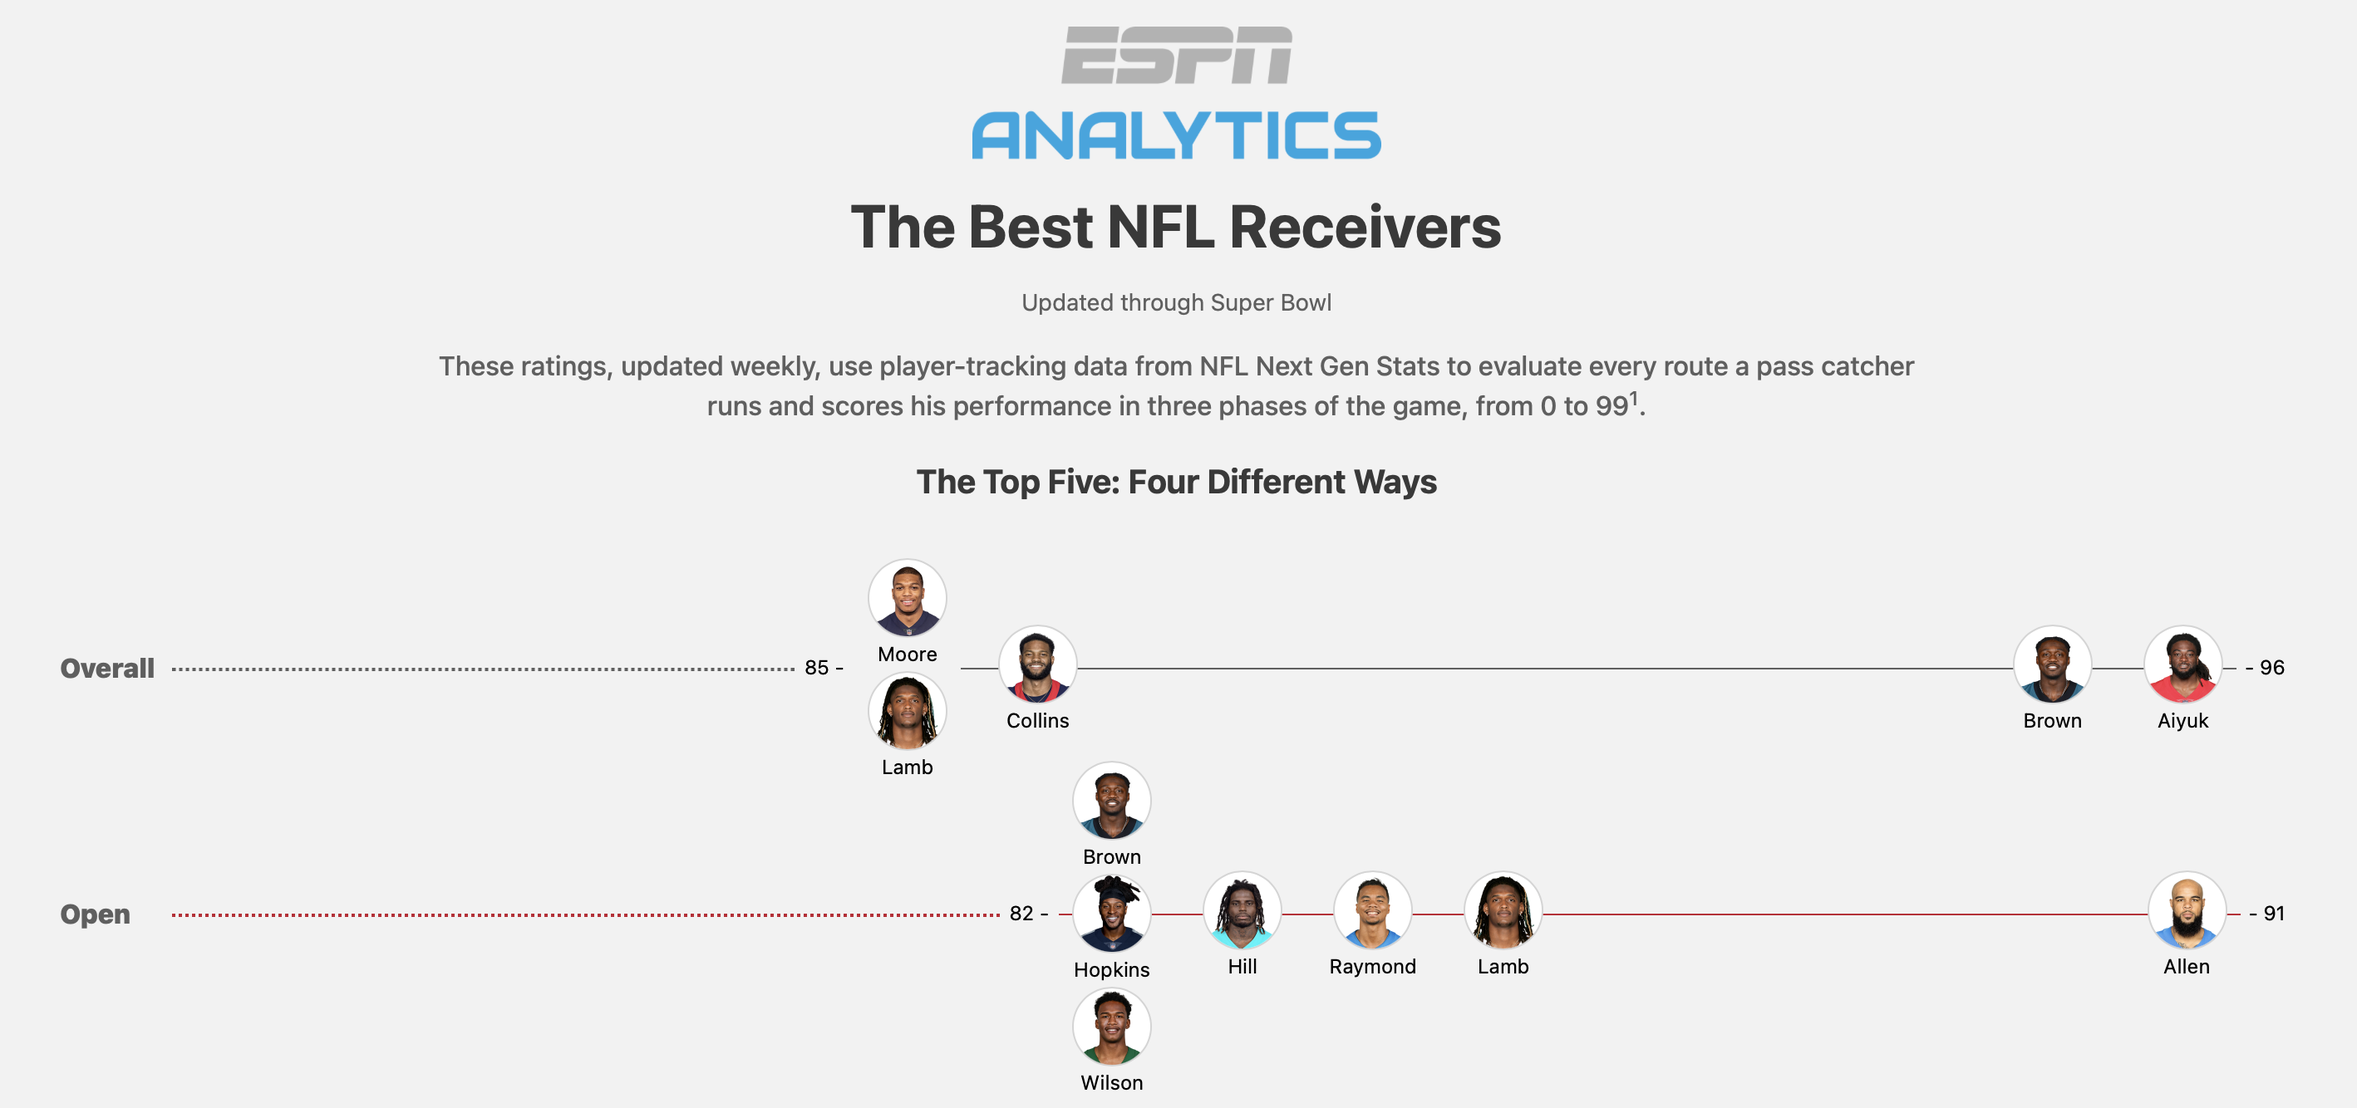
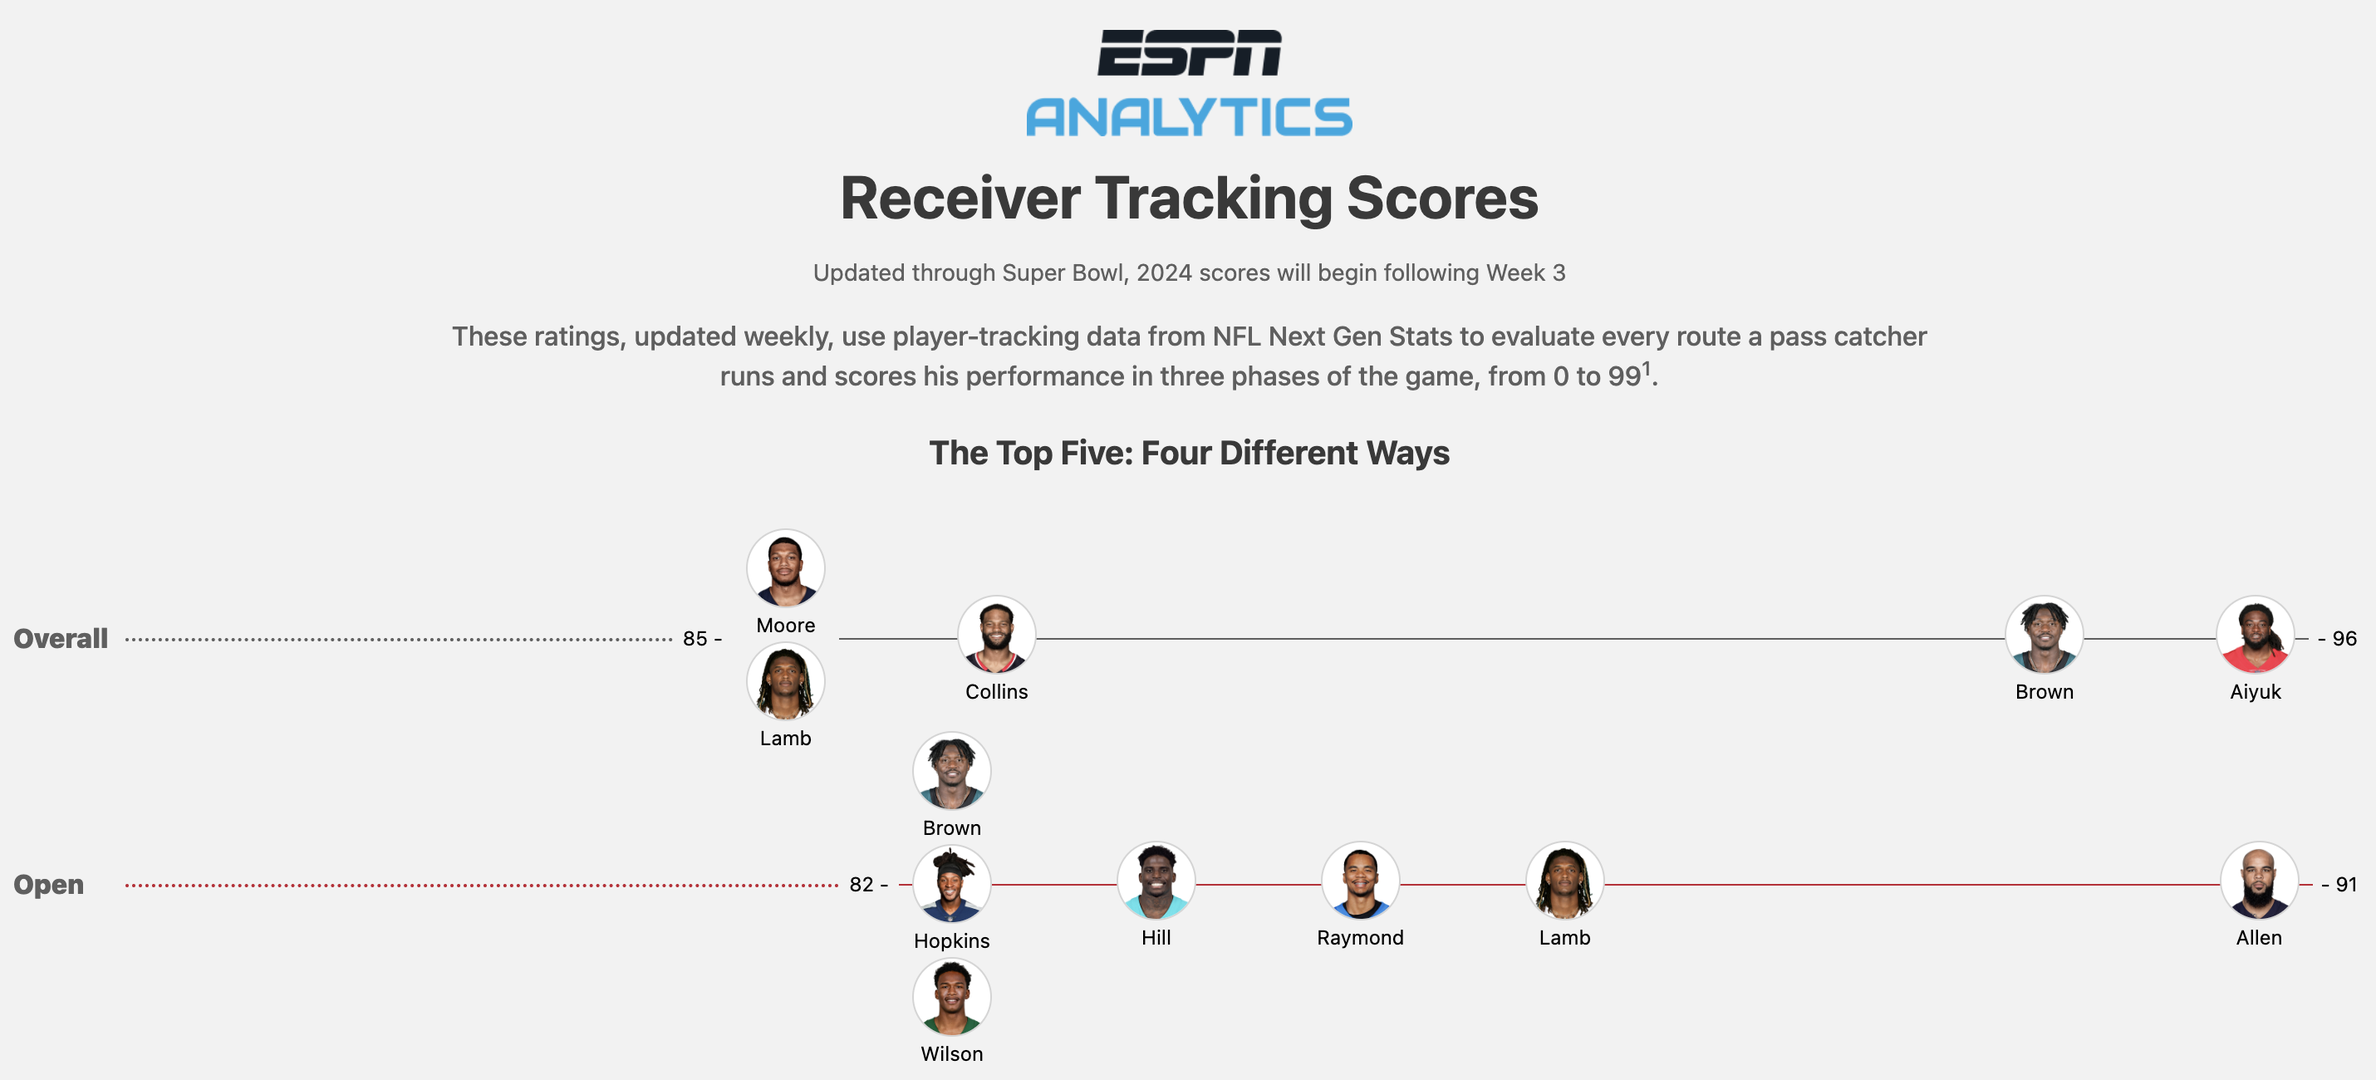
little update for start of NFL season

diff --git a/pages/features.vue b/pages/features.vue
@@ -28,17 +28,20 @@
               <div class="mt-10 flex items-center justify-center gap-x-6 flex-wrap">
                 <div class="flex gap-x-1 gap-y-4 sm:gap-6 flex-wrap justify-center">
                   <a href="https://espnanalytics.com/wnba-wpa" class="flex items-center justify-center w-[162px] rounded-md bg-espncyan-200 px-3.5 py-2.5 text-sm font-semibold text-white shadow-sm hover:bg-espncyan-900 focus-visible:outline focus-visible:outline-2 focus-visible:outline-offset-2 focus-visible:outline-espncyan-900">WNBA Player Metrics</a>
-                  <a href="https://espnanalytics.com/nba-mock-draft" class="flex items-center justify-center w-[162px] rounded-md bg-espncyan-200 px-3.5 py-2.5 text-sm font-semibold text-white shadow-sm hover:bg-espncyan-900 focus-visible:outline focus-visible:outline-2 focus-visible:outline-offset-2 focus-visible:outline-espncyan-900">NBA Mock Draft Builder</a>
-                  <a href="https://espnanalytics.com/nba-draft-sim" class="flex items-center justify-center w-[162px] rounded-md bg-espncyan-200 px-3.5 py-2.5 text-sm font-semibold text-white shadow-sm hover:bg-espncyan-900 focus-visible:outline focus-visible:outline-2 focus-visible:outline-offset-2 focus-visible:outline-espncyan-900">NBA Draft Simulator</a>
-                  <a href="https://espnanalytics.com/nba-draft-predictor" class="flex items-center justify-center w-[162px] rounded-md bg-espncyan-200 px-3.5 py-2.5 text-sm font-semibold text-white shadow-sm hover:bg-espncyan-900 focus-visible:outline focus-visible:outline-2 focus-visible:outline-offset-2 focus-visible:outline-espncyan-900">NBA Draft Predictor</a>
+                  <a href="/decision" class="flex items-center justify-center w-[162px] rounded-md bg-espncyan-200 px-3.5 py-2.5 text-sm font-semibold text-white shadow-sm hover:bg-espncyan-900 focus-visible:outline focus-visible:outline-2 focus-visible:outline-offset-2 focus-visible:outline-espncyan-900">NFL 4th Downs</a>
+                  <a href="/rtm" class="flex items-center justify-center w-[162px] rounded-md bg-espncyan-200 px-3.5 py-2.5 text-sm font-semibold text-white shadow-sm hover:bg-espncyan-900 focus-visible:outline focus-visible:outline-2 focus-visible:outline-offset-2 focus-visible:outline-espncyan-900">NFL Receiver Scores</a>
                   <a href="/schedule" class="flex items-center justify-center w-[162px] rounded-md bg-espncyan-200 px-3.5 py-2.5 text-sm font-semibold text-white shadow-sm hover:bg-espncyan-900 focus-visible:outline focus-visible:outline-2 focus-visible:outline-offset-2 focus-visible:outline-espncyan-900">2024 NFL Schedule Analysis</a>
+                  <a href="https://espnanalytics.com/nba-mock-draft" class="flex items-center justify-center w-[162px] rounded-md bg-espncyan-200 px-3.5 py-2.5 text-sm font-semibold text-white shadow-sm hover:bg-espncyan-900 focus-visible:outline focus-visible:outline-2 focus-visible:outline-offset-2 focus-visible:outline-espncyan-900">2024 NBA Mock Draft Builder</a>
+                  <a href="https://espnanalytics.com/nba-draft-sim" class="flex items-center justify-center w-[162px] rounded-md bg-espncyan-200 px-3.5 py-2.5 text-sm font-semibold text-white shadow-sm hover:bg-espncyan-900 focus-visible:outline focus-visible:outline-2 focus-visible:outline-offset-2 focus-visible:outline-espncyan-900">2024 NBA Draft Simulator</a>
+                  <a href="https://espnanalytics.com/nba-draft-predictor" class="flex items-center justify-center w-[162px] rounded-md bg-espncyan-200 px-3.5 py-2.5 text-sm font-semibold text-white shadow-sm hover:bg-espncyan-900 focus-visible:outline focus-visible:outline-2 focus-visible:outline-offset-2 focus-visible:outline-espncyan-900">2024 NBA Draft Predictor</a>
+                  
                   <a href="https://espnanalytics.com/mock-draft" class="flex items-center justify-center w-[162px] rounded-md bg-espncyan-200 px-3.5 py-2.5 text-sm font-semibold text-white shadow-sm hover:bg-espncyan-900 focus-visible:outline focus-visible:outline-2 focus-visible:outline-offset-2 focus-visible:outline-espncyan-900">2024 NFL Mock Draft Builder</a>
                   <a href="https://espnanalytics.com/draft-sim" class="flex items-center justify-center w-[162px] rounded-md bg-espncyan-200 px-3.5 py-2.5 text-sm font-semibold text-white shadow-sm hover:bg-espncyan-900 focus-visible:outline focus-visible:outline-2 focus-visible:outline-offset-2 focus-visible:outline-espncyan-900">2024 NFL Draft Simulator</a>
                   <a href="https://espnanalytics.com/draft-predictor" class="flex items-center justify-center w-[162px] rounded-md bg-espncyan-200 px-3.5 py-2.5 text-sm font-semibold text-white shadow-sm hover:bg-espncyan-900 focus-visible:outline focus-visible:outline-2 focus-visible:outline-offset-2 focus-visible:outline-espncyan-900">2024 NFL Draft Predictor</a>
-                  <a href="/rtm" class="flex items-center justify-center w-[162px] rounded-md bg-espncyan-200 px-3.5 py-2.5 text-sm font-semibold text-white shadow-sm hover:bg-espncyan-900 focus-visible:outline focus-visible:outline-2 focus-visible:outline-offset-2 focus-visible:outline-espncyan-900">RTMs</a>
+                  
                   <a href="/wcbb-games" class="flex items-center justify-center w-[162px] rounded-md bg-espncyan-200 px-3.5 py-2.5 text-sm font-semibold text-white shadow-sm hover:bg-espncyan-900 focus-visible:outline focus-visible:outline-2 focus-visible:outline-offset-2 focus-visible:outline-espncyan-900">2024 March Madness</a>
                   <a href="/draft-order" class="flex items-center justify-center w-[162px] rounded-md bg-espncyan-200 px-3.5 py-2.5 text-sm font-semibold text-white shadow-sm hover:bg-espncyan-900 focus-visible:outline focus-visible:outline-2 focus-visible:outline-offset-2 focus-visible:outline-espncyan-900">2024 Week 18 Draft Race</a>
-                  <a href="/decision" class="flex items-center justify-center w-[162px] rounded-md bg-espncyan-200 px-3.5 py-2.5 text-sm font-semibold text-white shadow-sm hover:bg-espncyan-900 focus-visible:outline focus-visible:outline-2 focus-visible:outline-offset-2 focus-visible:outline-espncyan-900">4th Downs</a>
+                  
                   <a href="https://espnanalytics.com/draft-predictor/2023" class="flex items-center justify-center w-[162px] rounded-md bg-espncyan-200 px-3.5 py-2.5 text-sm font-semibold text-white shadow-sm hover:bg-espncyan-900 focus-visible:outline focus-visible:outline-2 focus-visible:outline-offset-2 focus-visible:outline-espncyan-900">2023 NFL Draft Predictor</a>
                   <a href="https://espnanalytics.com/draft-sim/2023" class="flex items-center justify-center w-[162px] rounded-md bg-espncyan-200 px-3.5 py-2.5 text-sm font-semibold text-white shadow-sm hover:bg-espncyan-900 focus-visible:outline focus-visible:outline-2 focus-visible:outline-offset-2 focus-visible:outline-espncyan-900">2023 NFL Draft Simulator</a>
                   <a href="https://espnanalytics.com/draft-predictor/2022" class="flex items-center justify-center w-[162px] rounded-md bg-espncyan-200 px-3.5 py-2.5 text-sm font-semibold text-white shadow-sm hover:bg-espncyan-900 focus-visible:outline focus-visible:outline-2 focus-visible:outline-offset-2 focus-visible:outline-espncyan-900">2022 NFL Draft Predictor</a>
@@ -59,7 +62,7 @@
             </div>
             <div class="mt-8 flow-root sm:mt-12">
               <div class="sm:-m-2 rounded-xl bg-gray-900/5 p-2 ring-1 ring-inset ring-gray-900/10 lg:-m-4 lg:rounded-2xl lg:p-4">
-                <a href="/rtm"><img src="../assets/rtm_screenshot.png" alt="App screenshot" width="2432" height="1442" class="rounded-md shadow-2xl ring-1 ring-gray-900/10" /></a>
+                <a href="/wnba-wpa"><img src="../assets/wpa_screenshot.png" alt="App screenshot" width="2432" height="1442" class="rounded-md shadow-2xl ring-1 ring-gray-900/10" /></a>
               </div>
             </div>
           </div>

diff --git a/components/Header.vue b/components/Header.vue
@@ -17,7 +17,7 @@
         <div class="hidden lg:flex lg:gap-x-12 lg:items-center">
           <Popover class="relative px-10 w-[170px] text-center">
             <PopoverButton class="inline-flex items-center gap-x-1 text-lg font-semibold leading-6 text-gray-900 focus-visible:outline-none">
-              <span>NBA Draft</span>            
+              <span>NFL</span>            
             </PopoverButton>
             <transition enter-active-class="transition ease-out duration-200" enter-from-class="opacity-0 translate-y-1" enter-to-class="opacity-100 translate-y-0" leave-active-class="transition ease-in duration-150" leave-from-class="opacity-100 translate-y-0" leave-to-class="opacity-0 translate-y-1">
               <PopoverPanel class="absolute left-1/2 z-10 mt-5 flex w-screen max-w-max -translate-x-1/2 px-4">
@@ -148,23 +148,23 @@ const navigation = [
 //   { name: 'Live Draft Pick Chances', description: "Live chances at a top 5 pick during Week 18", href: '/draft-order', icon: PresentationChartLineIcon },
 // ]
 const mcbb = [
-  { name: 'NBA Draft Simulator', description: 'Be the GM and run a full simulation of the NFL Draft, make picks, trades and more', href: '/nba-draft-sim', icon: ForwardIcon },
-  { name: 'NBA Draft Day Predictor', description: 'Projections for how the NFL Draft will unfold', href: '/nba-draft-predictor', icon: ChartBarIcon },
-  { name: 'NBA Mock Draft Builder', description: 'Be the GM for every team in the NFL Draft, make picks, trades and more', href: '/nba-mock-draft', icon: ListBulletIcon }
+  { name: '4th Downs', description: 'See 4th down decision breakdowns', href: '/decision', icon: InformationCircleIcon }, 
+  { name: 'Receiver Tracking Metrics', description: 'Evaluate pass catchers a number of ways', href: '/rtm', icon: CubeTransparentIcon },
+  { name: 'NFL Schedule Analysis', description: 'How does the NFL schedule impact each team?', href: '/schedule', icon: CalendarDaysIcon }
 ]
 const wcbb = [
   { name: 'WNBA Player Metrics', description: 'Measuring impact for WNBA players using Win Probability Added', href: '/wnba-wpa', icon: CubeTransparentIcon },
+  { name: 'NBA Draft Simulator', description: 'Be the GM and run a full simulation of the NFL Draft, make picks, trades and more', href: '/nba-draft-sim', icon: ForwardIcon },
+  { name: 'NBA Draft Day Predictor', description: 'Projections for how the NFL Draft will unfold', href: '/nba-draft-predictor', icon: ChartBarIcon },
+  { name: 'NBA Mock Draft Builder', description: 'Be the GM for every team in the NFL Draft, make picks, trades and more', href: '/nba-mock-draft', icon: ListBulletIcon }, 
   { name: 'NFL Draft Day Predictor', description: 'Projections for how the NFL Draft will unfold', href: '/draft-predictor', icon: ChartBarIcon },
   { name: 'NFL Draft Simulator', description: 'Be the GM and run a full simulation of the NFL Draft, make picks, trades and more', href: '/draft-sim', icon: ForwardIcon },
   { name: 'NFL Mock Draft Builder', description: 'Be the GM for every team in the NFL Draft, make picks, trades and more', href: '/mock-draft', icon: ListBulletIcon },
-  { name: 'NFL Schedule Analysis', description: 'How does the NFL schedule impact each team?', href: '/schedule', icon: CalendarDaysIcon },
-  { name: 'Receiver Tracking Metrics', description: 'Evaluate pass catchers a number of ways', href: '/rtm', icon: CubeTransparentIcon },
-  { name: '4th Downs', description: 'See 4th down decision breakdowns', href: '/decision', icon: InformationCircleIcon },
-  { name: 'Live Draft Pick Chances', description: "Live chances at a top 5 pick during Week 18", href: '/draft-order', icon: PresentationChartLineIcon },
   { name: 'Women\'s Games', description: 'Full win probability wall for all women\'s games', href: '/wcbb-games', icon: ArrowTrendingUpIcon },
   { name: 'Women\'s Projections', description: 'Table showing live chances to advance to each round', href: '/wcbb-all', icon: ChartBarIcon },
   { name: 'Men\'s Games', description: 'Full win probability wall for all men\'s games', href: '/mcbb-games', icon: ArrowTrendingUpIcon },
-  { name: 'Men\'s Projections', description: 'Table showing live chances to advance to each round', href: '/mcbb-all', icon: ChartBarIcon }
+  { name: 'Men\'s Projections', description: 'Table showing live chances to advance to each round', href: '/mcbb-all', icon: ChartBarIcon },
+  { name: 'Live Draft Pick Chances', description: "Live chances at a top 5 pick during Week 18", href: '/draft-order', icon: PresentationChartLineIcon }
 ]
 // const callsToAction = [
 //   { name: 'Watch demo', href: '#', icon: PlayCircleIcon },

diff --git a/pages/index.vue b/pages/index.vue
@@ -30,23 +30,23 @@
               <div class="flex gap-x-6">
                 <!-- <a href="/schedule" class="flex items-center max-w-[200px] rounded-md bg-espncyan-200 px-3.5 py-2.5 text-sm font-semibold text-white shadow-sm hover:bg-espncyan-900 focus-visible:outline focus-visible:outline-2 focus-visible:outline-offset-2 focus-visible:outline-espncyan-900">NFL Schedule Analysis</a> -->
                 <a href="https://espnanalytics.com/wnba-wpa" class="flex items-center max-w-[120px] rounded-md bg-espncyan-200 px-3.5 py-2.5 text-sm font-semibold text-white shadow-sm hover:bg-espncyan-900 focus-visible:outline focus-visible:outline-2 focus-visible:outline-offset-2 focus-visible:outline-espncyan-900">WNBA Player Metrics</a>
-                <a href="https://espnanalytics.com/nba-draft-sim" class="flex items-center max-w-[120px] rounded-md bg-espncyan-200 px-3.5 py-2.5 text-sm font-semibold text-white shadow-sm hover:bg-espncyan-900 focus-visible:outline focus-visible:outline-2 focus-visible:outline-offset-2 focus-visible:outline-espncyan-900">NBA Draft Simulator</a>
-                <a href="https://espnanalytics.com/nba-draft-predictor" class="flex items-center max-w-[120px] rounded-md bg-espncyan-200 px-3.5 py-2.5 text-sm font-semibold text-white shadow-sm hover:bg-espncyan-900 focus-visible:outline focus-visible:outline-2 focus-visible:outline-offset-2 focus-visible:outline-espncyan-900">NBA Draft Predictor</a>
+                <a href="https://espnanalytics.com/decision" class="flex items-center max-w-[120px] rounded-md bg-espncyan-200 px-3.5 py-2.5 text-sm font-semibold text-white shadow-sm hover:bg-espncyan-900 focus-visible:outline focus-visible:outline-2 focus-visible:outline-offset-2 focus-visible:outline-espncyan-900">NFL 4th Downs</a>
+                <a href="https://espnanalytics.com/rtm" class="flex items-center max-w-[120px] rounded-md bg-espncyan-200 px-3.5 py-2.5 text-sm font-semibold text-white shadow-sm hover:bg-espncyan-900 focus-visible:outline focus-visible:outline-2 focus-visible:outline-offset-2 focus-visible:outline-espncyan-900">NFL Receiver Scores</a>
               </div>
               <a href="/features" class="pt-4 temp:pt-0 text-sm font-semibold leading-6 text-gray-900">Other ESPN Analytics Features <span aria-hidden="true">→</span></a>
             </div>
           </div>
           <div class="flex flex-wrap justify-between items-center">
-            <div class="mt-16 flow-root sm:mt-24 width-calc">
-              <div class="-m-2 rounded-xl bg-gray-900/5 p-2 ring-1 ring-inset ring-gray-900/10 lg:-m-4 lg:rounded-2xl lg:p-4">
-                <a href="https://espnanalytics.com/nba-draft-sim"><img src="../assets/nba_sim_screenshot.png" alt="App screenshot" class="rounded-md shadow-2xl ring-1 ring-gray-900/10" /></a>
+            <div class="mt-8 flow-root sm:mt-12">
+              <div class="sm:-m-2 rounded-xl bg-gray-900/5 p-2 ring-1 ring-inset ring-gray-900/10 lg:-m-4 lg:rounded-2xl lg:p-4">
+                <a href="/rtm"><img src="../assets/rtm_screenshot.png" alt="App screenshot" width="2432" height="1442" class="rounded-md shadow-2xl ring-1 ring-gray-900/10" /></a>
               </div>
             </div>
-            <div class="mt-16 flow-root sm:mt-24 width-calc">
-              <div class="-m-2 rounded-xl bg-gray-900/5 p-2 ring-1 ring-inset ring-gray-900/10 lg:-m-4 lg:rounded-2xl lg:p-4">
-                <a href="https://espnanalytics.com/nba-draft-predictor"><img src="../assets/nba_ddp_screenshot.png" alt="App screenshot" class="rounded-md shadow-2xl ring-1 ring-gray-900/10" /></a>
+            <!-- <div class="mt-8 flow-root sm:mt-12">
+              <div class="sm:-m-2 rounded-xl bg-gray-900/5 p-2 ring-1 ring-inset ring-gray-900/10 lg:-m-4 lg:rounded-2xl lg:p-4">
+                <a href="/wnba-wpa"><img src="../assets/wpa_screenshot.png" alt="App screenshot" width="2432" height="1442" class="rounded-md shadow-2xl ring-1 ring-gray-900/10" /></a>
               </div>
-            </div>
+            </div> -->
           </div>
         </div>
       </div>

diff --git a/pages/rtm.vue b/pages/rtm.vue
@@ -12,9 +12,10 @@
         <Header></Header>
         <div class="pt-28">
             <div class="flex flex-col items-center gap-4">
-                <div class="text-4xl font-bold text-center text-espngray-900">The Best NFL Receivers</div>
+                <img class="h-16 w-auto" src="../assets/logo.png" alt="" />
+                <div class="text-4xl font-bold text-center text-espngray-900">Receiver Tracking Scores</div>
                 <div class="text-espngray-600 font-normal text-sm" v-if="weekUpdate <= 18">Updated through Week {{ weekUpdate }}</div>
-                <div class="text-espngray-600 font-normal text-sm" v-else>Updated through {{ weekUpdate2 }}</div>
+                <div class="text-espngray-600 font-normal text-sm" v-else>Updated through {{ weekUpdate2 }}, 2024 scores will begin following Week 3</div>
                 <div class="p-2 lg:p-0 max-w-4xl text-center font-medium text-espngray-600">These ratings, updated weekly, use player-tracking data from NFL Next Gen Stats to evaluate every route a pass catcher runs and scores his performance in three phases of the
                 game, from 0 to 99<sup class="cursor-pointer" @click="clickedFootnote()">1</sup>.</div>
             </div>

diff --git a/pages/wnba-wpa.vue b/pages/wnba-wpa.vue
@@ -12,6 +12,7 @@
         <Header></Header>
         <div class="pt-28">
             <div class="flex flex-col items-center gap-4">
+                <img class="h-16 w-auto" src="../assets/logo.png" alt="" />
                 <div class="text-4xl font-bold text-center text-espngray-900">The Best WNBA Players</div>
                 <div class="text-espngray-600 font-normal text-sm">Updated through {{ dateUpdate }}</div>
                 <div class="p-2 lg:p-0 max-w-4xl text-center font-medium text-espngray-600">These ratings, updated daily, use play-by-play data from the WNBA and utilize ESPN's WNBA Win Probability model to measure how impactful a player is to her team winning based on her performance<sup class="cursor-pointer" @click="clickedFootnote()">1</sup>.</div>
